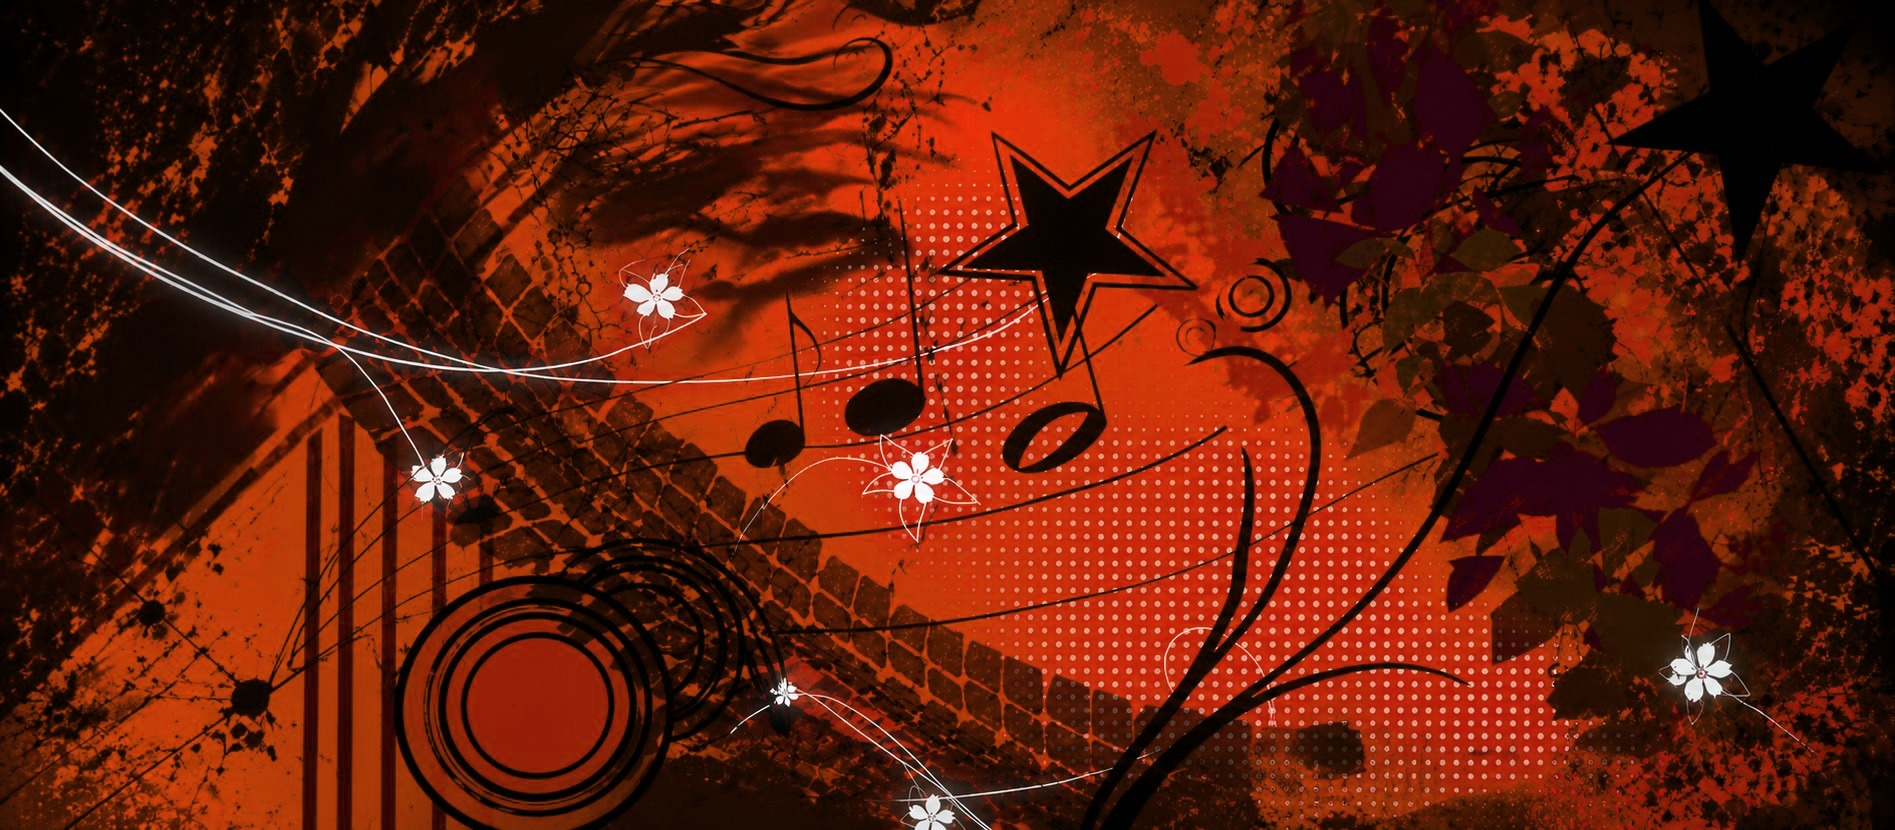
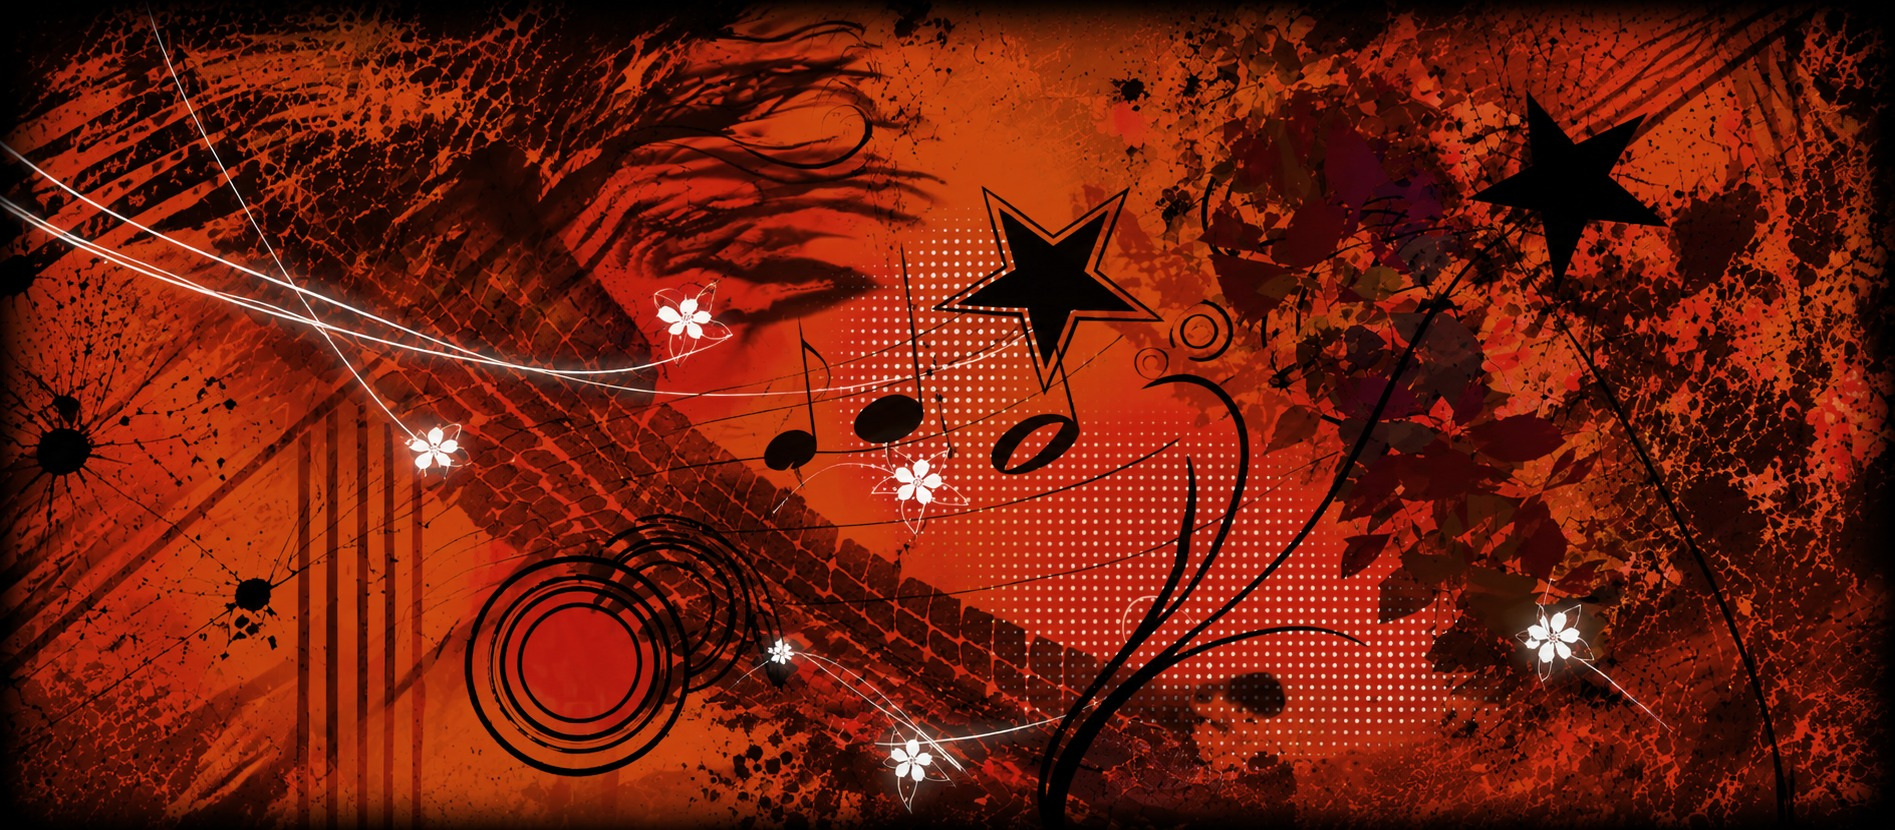
Revengeseekerz : le fond fourni, et le disque accorde dessus
Le fond vient maintenant de l auteur, au bon format et en pleine taille : il
remplace ma propre teinte, qui etait a +13.5 degres alors que la sienne est a
+9.6. Le disque et les vingt cinq accents de l interface sont recales sur
cette valeur la plutot que sur la mienne, sans quoi trois oranges legerement
differents se cotoieraient sur la meme page.

Le disque garde sa gravure : seule sa teinte tourne, de -2.8 a +9.5 degres,
le noir de l etiquette ne bougeant pas puisque le decalage est pondere par la
saturation. La teinte seule ne suffisait pas : a une clarte de 0.40 contre
0.53 pour le fond, il lisait brun et non orange. La clarte des zones colorees
est donc relevee dans le meme rapport, ce qui l amene a 0.52 — le disque et
le fond sont maintenant dans le meme ton.

diff --git a/style.css b/style.css
@@ -748,10 +748,10 @@ body.is-stage .swoosh{opacity:1}
    ================================================================== */
 
 body.alb-red{
-  --paper:#c6360d;
+  --paper:#c6290d;
   --ink:#0b0505;
   background:
-    radial-gradient(120% 90% at 50% 8%, #e24e20 0%, #c0320b 42%, #7d1c04 100%);
+    radial-gradient(120% 90% at 50% 8%, #e23e20 0%, #c0260b 42%, #7d1604 100%);
   color:#0b0505;
 }
 
@@ -773,7 +773,7 @@ body.alb-red .deco{
   display:block;
   position:absolute;inset:0;z-index:0;
   overflow:hidden;
-  background:url("assets/bg2.jpg?v=2") center center / cover no-repeat;
+  background:url("assets/bg2.jpg?v=3") center center / cover no-repeat;
   pointer-events:none;
   opacity:0;transition:opacity 1.4s ease .3s;
   /* La derive se fait en pourcentage de position : avec cover, cela ne joue
@@ -798,7 +798,7 @@ body.alb-red .deco{
 body.alb-red .fl{
   position:absolute;display:block;
   filter:drop-shadow(0 0 7px rgba(255,255,255,.85))
-         drop-shadow(0 0 22px rgba(255,182,150,.5));
+         drop-shadow(0 0 22px rgba(255,167,150,.5));
   opacity:.2;
   animation:twinkle 6s ease-in-out infinite;
 }
@@ -841,7 +841,7 @@ body.alb-red .ember{
   position:absolute;display:block;
   width:3px;height:3px;border-radius:50%;
   background:rgba(255,196,150,.95);
-  box-shadow:0 0 7px rgba(255,200,90,.9);
+  box-shadow:0 0 7px rgba(255,133,90,.9);
   opacity:0;
   animation:rise 15s linear infinite;
 }
@@ -930,7 +930,7 @@ body.alb-red .trk-name,
 body.alb-red .alb-name{
   color:rgba(255,255,255,.76);font-weight:700;
   text-shadow:0 0 10px rgba(255,255,255,.42),
-              0 0 24px rgba(255,154,110,.34),
+              0 0 24px rgba(255,133,110,.34),
               0 1px 2px rgba(11,5,5,.6);
 }
 body.alb-red .trk.is-current .trk-name,
@@ -963,7 +963,7 @@ body.alb-red .sleeve{
 /* ---- la platine se met au noir pour ne pas trancher sur le rouge ---- */
 
 body.alb-red .deck-plinth{
-  background:linear-gradient(168deg,#140704 0%,#080201 48%,#020100 100%);
+  background:linear-gradient(168deg,#140604 0%,#080201 48%,#020100 100%);
   box-shadow:
     0 30px 46px rgba(0,0,0,.58),
     0 6px 12px rgba(0,0,0,.42),
@@ -987,7 +987,7 @@ body.alb-red .arm-pivot{
 }
 body.alb-red .spindle{background:linear-gradient(180deg,#c9c5bf,#59564f)}
 body.alb-red .deck-knob{
-  background:linear-gradient(180deg,#d85226,#8b270a);
+  background:linear-gradient(180deg,#d84226,#8b1e0a);
   box-shadow:0 2px 4px rgba(0,0,0,.6),inset 0 1px 0 rgba(255,255,255,.4);
 }
 
@@ -1013,7 +1013,7 @@ body.alb-red .lyr.is-now{
   text-shadow:
     0 0 7px rgba(255,255,255,.95),
     0 0 24px rgba(255,255,255,.7),
-    0 0 52px rgba(255,144,96,.6),
+    0 0 52px rgba(255,121,96,.6),
     0 2px 3px rgba(11,5,5,.6);
 }
 body.alb-red .lyr-echo{
@@ -1028,7 +1028,7 @@ body.alb-red .lyr.is-now .lyr-echo{
 body.alb-red .lyr-note{
   color:rgba(255,255,255,.78);
   filter:drop-shadow(0 0 9px rgba(255,255,255,.65))
-         drop-shadow(0 0 26px rgba(255,154,110,.5));
+         drop-shadow(0 0 26px rgba(255,133,110,.5));
 }
 body.alb-red .lyrics.is-tuning{box-shadow:inset 0 0 0 1px rgba(255,255,255,.4)}
 
@@ -1036,7 +1036,7 @@ body.alb-red .lyrics.is-tuning{box-shadow:inset 0 0 0 1px rgba(255,255,255,.4)}
 
 body.alb-red .sound{
   border-color:rgba(255,255,255,.22);
-  background:linear-gradient(180deg,#2a100a,#080302);
+  background:linear-gradient(180deg,#2a0e0a,#080302);
   box-shadow:0 0 0 2px #0b0505,0 12px 20px rgba(0,0,0,.45),inset 0 2px 3px rgba(255,255,255,.24);
 }
 body.alb-red .sound:hover{box-shadow:0 0 0 2px #0b0505,0 18px 26px rgba(0,0,0,.55)}
@@ -1053,12 +1053,12 @@ body.alb-red #vol{
 }
 body.alb-red #vol::-webkit-slider-thumb{
   border-color:rgba(255,255,255,.28);
-  background:linear-gradient(180deg,#3a1810,#080302);
+  background:linear-gradient(180deg,#3a1610,#080302);
   box-shadow:0 4px 8px rgba(0,0,0,.5),inset 0 1px 2px rgba(255,255,255,.3);
 }
 body.alb-red #vol::-moz-range-thumb{
   border-color:rgba(255,255,255,.28);
-  background:linear-gradient(180deg,#3a1810,#080302);
+  background:linear-gradient(180deg,#3a1610,#080302);
 }
 body.alb-red #vol:focus-visible{outline-color:#fff}
 
@@ -1154,7 +1154,7 @@ body.alb-sepia .alb-t-paper.is-current .bub{
 }
 body.alb-sepia .alb-t-red.is-current .bub{
   box-shadow:
-    0 0 0 3px #7d1c04,
+    0 0 0 3px #7d1604,
     0 0 0 5px rgba(247,235,208,.7),
     0 16px 26px rgba(40,28,14,.5);
 }

diff --git a/index.html b/index.html
@@ -13,7 +13,7 @@
 <meta property="og:image" content="assets/cover.jpg">
 <meta property="og:type" content="music.album">
 <meta name="twitter:card" content="summary_large_image">
-<link rel="stylesheet" href="style.css?v=18">
+<link rel="stylesheet" href="style.css?v=19">
 </head>
 <body>
 
@@ -2232,7 +2232,7 @@ var ALBUMS = [
     }) },
 
   { title:'Revengeseekerz', by:'Jane Remover', theme:'red',
-    disc:'assets/disc2.png', cover:'assets/cover2.jpg', thumb:'assets/alb2.jpg',
+    disc:'assets/disc2.png?v=2', cover:'assets/cover2.jpg', thumb:'assets/alb2.jpg',
     art:'assets/trk2.jpg', artFill:true,
     start:7,                                  /* Dancing with your eyes closed */
     tracks: A2 },
